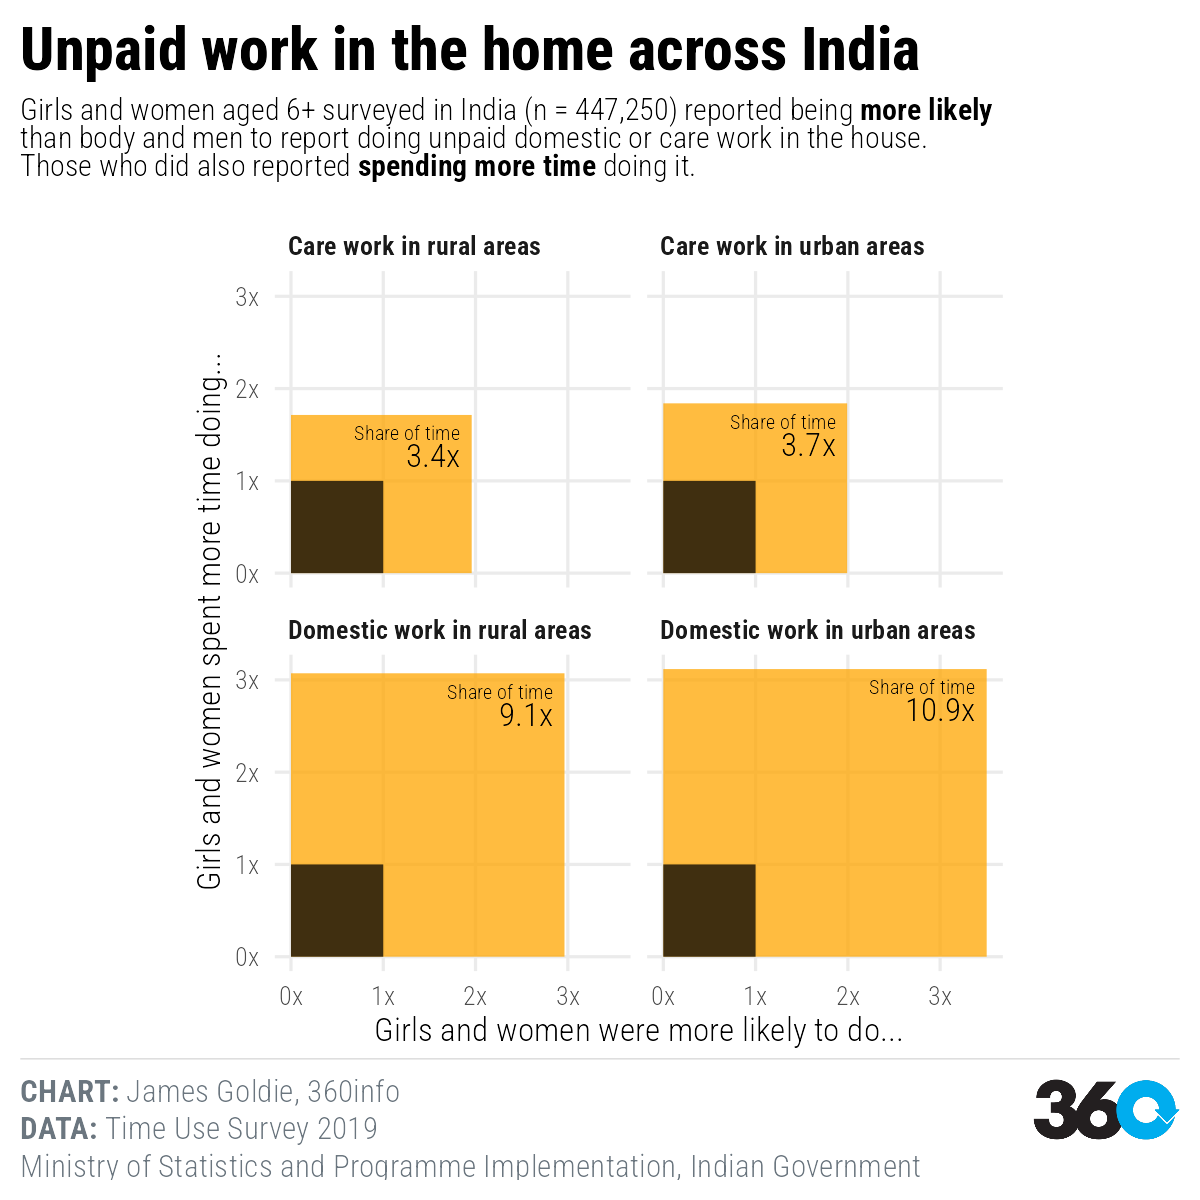
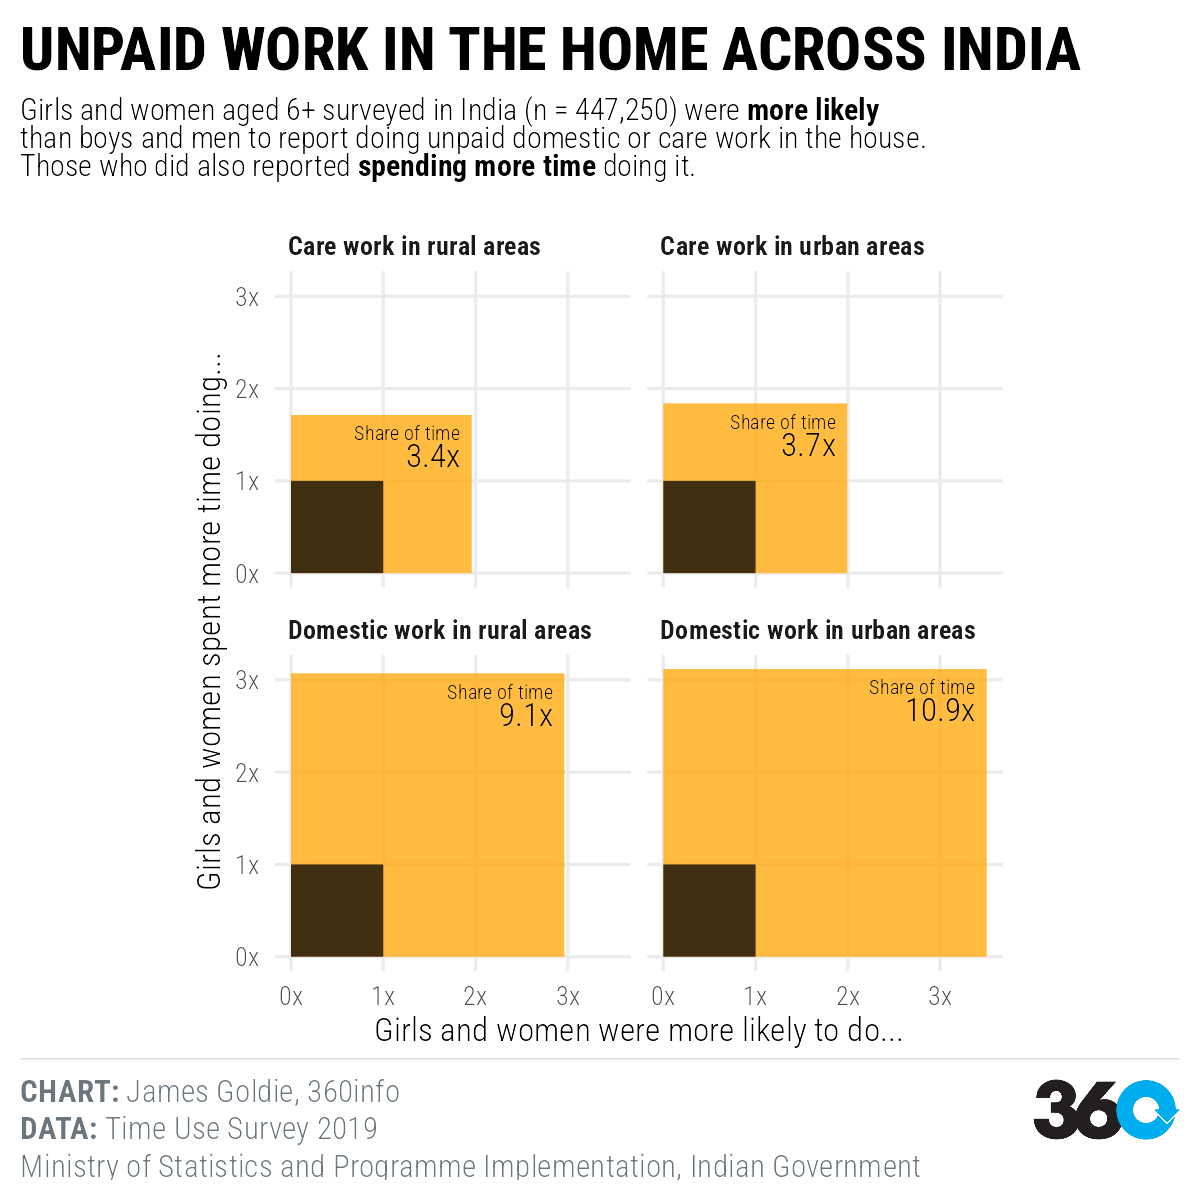
India graphic: uppercase title

Changed region(s): [[0.0308, 0.0, 0.8942, 0.1233]]

diff --git a/out/analysis/timeuse-india/index.html b/out/analysis/timeuse-india/index.html
@@ -7,7 +7,7 @@
 <meta name="viewport" content="width=device-width, initial-scale=1.0, user-scalable=yes">
 
 <meta name="author" content="James Goldie">
-<meta name="dcterms.date" content="2024-02-21">
+<meta name="dcterms.date" content="2024-03-01">
 
 <title>Time Use in India, 2019</title>
 <style>
@@ -145,7 +145,7 @@ pre > code.sourceCode > span > a:first-child::before { text-decoration: underlin
     <div>
     <div class="quarto-title-meta-heading">Published</div>
     <div class="quarto-title-meta-contents">
-      <p class="date">February 21, 2024</p>
+      <p class="date">March 1, 2024</p>
     </div>
   </div>
   
@@ -345,15 +345,15 @@ dbl (9): male_rural, female_rural, person_rural, male_urban, female_urban, p...
 <span id="cb12-23"><a href="#cb12-23" aria-hidden="true" tabindex="-1"></a>  <span class="fu">labs</span>(</span>
 <span id="cb12-24"><a href="#cb12-24" aria-hidden="true" tabindex="-1"></a>    <span class="at">x =</span> <span class="st">"Girls and women were more likely to do..."</span>,</span>
 <span id="cb12-25"><a href="#cb12-25" aria-hidden="true" tabindex="-1"></a>    <span class="at">y =</span> <span class="st">"Girls and women spent more time doing..."</span>,</span>
-<span id="cb12-26"><a href="#cb12-26" aria-hidden="true" tabindex="-1"></a>    <span class="at">title =</span> <span class="st">"Unpaid work in the home across India"</span>,</span>
+<span id="cb12-26"><a href="#cb12-26" aria-hidden="true" tabindex="-1"></a>    <span class="at">title =</span> <span class="fu">toupper</span>(<span class="st">"Unpaid work in the home across India"</span>),</span>
 <span id="cb12-27"><a href="#cb12-27" aria-hidden="true" tabindex="-1"></a>    <span class="at">caption =</span> <span class="fu">paste</span>(</span>
 <span id="cb12-28"><a href="#cb12-28" aria-hidden="true" tabindex="-1"></a>      <span class="st">"**CHART:** James Goldie, 360info"</span>,</span>
 <span id="cb12-29"><a href="#cb12-29" aria-hidden="true" tabindex="-1"></a>      <span class="st">"**DATA:** Time Use Survey 2019"</span>,</span>
 <span id="cb12-30"><a href="#cb12-30" aria-hidden="true" tabindex="-1"></a>      <span class="st">"Ministry of Statistics and Programme Implementation, Indian Government"</span>,</span>
 <span id="cb12-31"><a href="#cb12-31" aria-hidden="true" tabindex="-1"></a>      <span class="at">sep =</span> <span class="st">"&lt;br&gt;"</span>),</span>
 <span id="cb12-32"><a href="#cb12-32" aria-hidden="true" tabindex="-1"></a>    <span class="at">subtitle =</span> <span class="fu">paste</span>(</span>
-<span id="cb12-33"><a href="#cb12-33" aria-hidden="true" tabindex="-1"></a>      <span class="st">"Girls and women aged 6+ surveyed in India (n = 447,250) reported being **more likely**"</span>,</span>
-<span id="cb12-34"><a href="#cb12-34" aria-hidden="true" tabindex="-1"></a>      <span class="st">"than body and men to report doing unpaid domestic or care work in the house."</span>,</span>
+<span id="cb12-33"><a href="#cb12-33" aria-hidden="true" tabindex="-1"></a>      <span class="st">"Girls and women aged 6+ surveyed in India (n = 447,250) were **more likely**"</span>,</span>
+<span id="cb12-34"><a href="#cb12-34" aria-hidden="true" tabindex="-1"></a>      <span class="st">"than boys and men to report doing unpaid domestic or care work in the house."</span>,</span>
 <span id="cb12-35"><a href="#cb12-35" aria-hidden="true" tabindex="-1"></a>      <span class="st">" Those who did also reported **spending more time** doing it."</span>,</span>
 <span id="cb12-36"><a href="#cb12-36" aria-hidden="true" tabindex="-1"></a>      <span class="at">sep =</span> <span class="st">"&lt;br&gt;"</span>)) <span class="ot">-&gt;</span></span>
 <span id="cb12-37"><a href="#cb12-37" aria-hidden="true" tabindex="-1"></a>ratio_plot</span>
